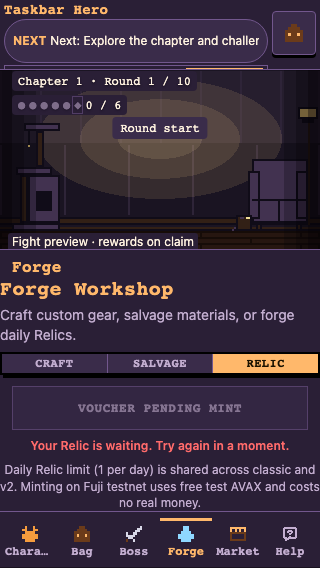
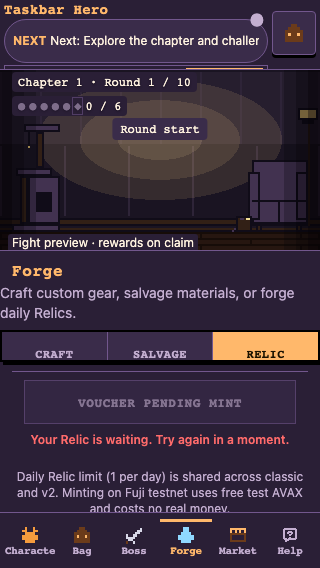
Refresh CXN1 report and evidence after merging main

diff --git a/reports/n1-relic-recovery.md b/reports/n1-relic-recovery.md
@@ -5,6 +5,8 @@ APPLY BEFORE DEPLOY: 20261107000000_voucher_race_guard.sql
 
 Date: 31 October 2026 (UTC+7). Base: origin/main at a913b052387f666b58d706281b51c926177b6e62, including deploy import-map fix #217. The user confirmed Claude's merge notice. Work used a separate clean worktree because the original checkout contained another mission's unfinished edits. Read-first period: 07:51:49–08:22:04 UTC+7 (30 minutes 15 seconds); no implementation edits during that period.
 
+Latest update: origin/main at 70d8c7948940c59b167963253fa8874ab5353190 was merged into this branch at the user's explicit request. See section 9 for the conflict resolution and latest verification; earlier check logs remain historical evidence.
+
 ## 1. Pieces and acceptance
 
 - Piece 1 — PASS: expose the existing relic_forges.id as claimId in v1/v2 forge replies, pending vouchers, forge.today and mint-report replies. Shared contract types, SQL JSON helpers, both store adapters, demo APIs and docs carry it. No claim-id column was added. Replacement vouchers retain the same claim, Relic and rarity.
@@ -59,8 +61,10 @@ Additional passing cases: state/competing forge cannot sign during a paused reis
 - apps/web/src/forge/ForgeTab.test.tsx — API helper preserves the added field/unsigned type and adds T11.
 - apps/web/src/layout/forge/ForgePanel.test.tsx — fixture ids and signed/unsigned pending-voucher precedence tests.
 - apps/web/src/game/stage/relicWiring.test.ts — voucher/result fixture ids for the expanded contract.
-- apps/web/src/game/stage/relicWiring.ui.test.tsx — required voucher fixture id.
+- apps/web/src/game/stage/relicWiring.ui.test.tsx — required voucher fixture id and a merge regression covering unsigned recovery in the relocated Relic footer.
 - apps/web/src/game/v2/loopV2.test.ts — forge result/voucher fixture ids.
+- apps/web/src/forge/MintPanel.test.tsx — add the required claimId to the new AGN1 test fixture after merging main; production MintPanel is unchanged relative to main.
+- apps/web/e2e/layout/stage-layout.spec.ts — await the observed panel-focus transition before Escape; retains the original focus assertion and timeout and avoids racing the next-frame callback.
 - apps/web/e2e/server/n1-relic-recovery.spec.ts — six viewport checks and opt-in screenshots for the connected forge view.
 
 Deliberately updated old assertions: v1 no-signer state changed from pending=null/daily_limit to a visible unsigned recoverable voucher; v2 no-signer state changed from pending=null to the same visible recovery. The competing-v2-reissue test now expects server_error while another request's unsigned check is held, then verifies successful lease recovery, the same Relic, a new nonce and no fresh forge call. No tests were deleted, disabled, skipped or weakened to hide failures. Existing game-rules skips/expected failures were left unchanged.
@@ -71,6 +75,7 @@ Deliberately updated old assertions: v1 no-signer state changed from pending=nul
 Command: git diff --stat origin/main...HEAD
 
 ```text
+ apps/web/e2e/layout/stage-layout.spec.ts           |   4 +
  apps/web/e2e/server/n1-relic-recovery.spec.ts      |  46 +++
  apps/web/src/CafeBoard.test.tsx                    |   2 +
  apps/web/src/api/GameApiV2.ts                      |  10 +-
@@ -81,14 +86,15 @@ Command: git diff --stat origin/main...HEAD
  apps/web/src/boss/BossTab.test.tsx                 |   2 +-
  apps/web/src/forge/ForgeTab.test.tsx               |  18 +-
  apps/web/src/forge/ForgeTab.tsx                    |  12 +-
+ apps/web/src/forge/MintPanel.test.tsx              |   1 +
  apps/web/src/forge/TodayRelicCard.test.tsx         |   4 +-
  apps/web/src/forge/TodayRelicCard.tsx              |   4 +-
  apps/web/src/forge/forgeText.ts                    |   2 +
  apps/web/src/game/stage/relicWiring.test.ts        |   4 +-
- apps/web/src/game/stage/relicWiring.ui.test.tsx    |   2 +-
+ apps/web/src/game/stage/relicWiring.ui.test.tsx    |  15 +-
  apps/web/src/game/v2/loopV2.test.ts                |   3 +-
  apps/web/src/layout/StageLayout.tsx                |   3 +-
- apps/web/src/layout/forge/ForgePanel.test.tsx      |  17 ++
+ apps/web/src/layout/forge/ForgePanel.test.tsx      |  17 +
  apps/web/src/layout/forge/ForgePanel.tsx           |  14 +-
  docs/api-v2.md                                     |  12 +-
  docs/api.md                                        |  10 +-
@@ -97,29 +103,29 @@ Command: git diff --stat origin/main...HEAD
  packages/api-contract/src/state.ts                 |   9 +-
  packages/api-contract/src/types.ts                 |  22 +-
  packages/api-contract/src/v2.ts                    |   8 +
- reports/n1-relic-recovery.md                       | 310 +++++++++++++++++++++
- .../n1-relic-recovery/pending-1280x720-dark.png    | Bin 0 -> 96757 bytes
- .../n1-relic-recovery/pending-1280x720-light.png   | Bin 0 -> 96757 bytes
- .../n1-relic-recovery/pending-1600x900-light.png   | Bin 0 -> 122027 bytes
- .../n1-relic-recovery/pending-320x568-light.png    | Bin 0 -> 48545 bytes
- reports/n1-relic-recovery/pending-390x844-dark.png | Bin 0 -> 64330 bytes
- .../n1-relic-recovery/pending-390x844-light.png    | Bin 0 -> 64330 bytes
+ reports/n1-relic-recovery.md                       | 397 +++++++++++++++++++++
+ .../n1-relic-recovery/pending-1280x720-dark.png    | Bin 0 -> 103114 bytes
+ .../n1-relic-recovery/pending-1280x720-light.png   | Bin 0 -> 103114 bytes
+ .../n1-relic-recovery/pending-1600x900-light.png   | Bin 0 -> 114875 bytes
+ .../n1-relic-recovery/pending-320x568-light.png    | Bin 0 -> 45396 bytes
+ reports/n1-relic-recovery/pending-390x844-dark.png | Bin 0 -> 57904 bytes
+ .../n1-relic-recovery/pending-390x844-light.png    | Bin 0 -> 57904 bytes
  supabase/functions/_shared/game-server.ts          |   5 +
- supabase/functions/_shared/game.ts                 |  89 ++++--
+ supabase/functions/_shared/game.ts                 |  89 ++++-
  supabase/functions/_shared/relic.ts                |   7 +-
  supabase/functions/_shared/v2/forge.ts             |  13 +-
  supabase/functions/_shared/v2/game.ts              |  23 +-
  supabase/functions/_shared/v2/server.ts            |   3 +-
  supabase/functions/_shared/v2/voucher.ts           |   5 +-
- .../20261107000000_voucher_race_guard.sql          | 271 ++++++++++++++++++
+ .../20261107000000_voucher_race_guard.sql          | 271 ++++++++++++++
  supabase/tests/src/forge.test.ts                   |  28 +-
  supabase/tests/src/game-db.ts                      |  12 +-
- supabase/tests/src/relic-reader.test.ts            |  16 ++
- supabase/tests/src/relic-recovery.test.ts          | 262 +++++++++++++++++
+ supabase/tests/src/relic-reader.test.ts            |  16 +
+ supabase/tests/src/relic-recovery.test.ts          | 262 ++++++++++++++
  supabase/tests/v2/functions-forge.test.ts          |   7 +-
  supabase/tests/v2/functions-state.test.ts          |   2 +-
  supabase/tests/v2/v2-store.ts                      |   3 +-
- 48 files changed, 1193 insertions(+), 109 deletions(-)
+ 50 files changed, 1298 insertions(+), 109 deletions(-)
 ```
 <!-- STAT_END -->
 
@@ -127,6 +133,7 @@ Command: git diff --stat origin/main...HEAD
 Command: git diff --name-only origin/main...HEAD
 
 ```text
+apps/web/e2e/layout/stage-layout.spec.ts
 apps/web/e2e/server/n1-relic-recovery.spec.ts
 apps/web/src/CafeBoard.test.tsx
 apps/web/src/api/GameApiV2.ts
@@ -137,6 +144,7 @@ apps/web/src/api/SupabaseGameApi.ts
 apps/web/src/boss/BossTab.test.tsx
 apps/web/src/forge/ForgeTab.test.tsx
 apps/web/src/forge/ForgeTab.tsx
+apps/web/src/forge/MintPanel.test.tsx
 apps/web/src/forge/TodayRelicCard.test.tsx
 apps/web/src/forge/TodayRelicCard.tsx
 apps/web/src/forge/forgeText.ts
@@ -178,7 +186,7 @@ supabase/tests/v2/v2-store.ts
 ```
 <!-- NAMES_END -->
 
-## 5. Checks and real output
+## 5. Initial implementation checks and real output
 
 Toolchain:
 
@@ -254,7 +262,7 @@ SCREENSHOTS=1 pnpm test:e2e e2e/server/n1-relic-recovery.spec.ts --project=v2-se
 6 passed (11.8s)
 ```
 
-The six PNGs are in reports/n1-relic-recovery, at 1600x900, 1280x720, 390x844 and 320x568 light, and 1280x720/390x844 dark. Sizes: 122027, 96757, 64330, 48545, 96757 and 64330 bytes respectively; all below 200 KB. All six were visually inspected. Browser evidence replaces only the local state reply's forge payload with an unavailable-signer fixture; surrounding state/session comes from the real local PGlite transport. Real server payload behavior is tested independently in the backend tests.
+The initial six PNG captures were in reports/n1-relic-recovery (refreshed captures are listed in section 9), at 1600x900, 1280x720, 390x844 and 320x568 light, and 1280x720/390x844 dark. Sizes: 122027, 96757, 64330, 48545, 96757 and 64330 bytes respectively; all below 200 KB. All six were visually inspected. Browser evidence replaces only the local state reply's forge payload with an unavailable-signer fixture; surrounding state/session comes from the real local PGlite transport. Real server payload behavior is tested independently in the backend tests.
 
 Full browser suite — PASS on the full isolated-port rerun, exit 0:
 
@@ -307,4 +315,83 @@ Git author: ntbaoheyhey <108352255+ntbaoheyhey@users.noreply.github.com>.
 
 Reproduce with the frozen install and checks above. The focused recovery tests cover both API versions. Run the six-case screenshot command for the committed PNGs. Run the full browser suite with the isolated four-port environment above if the default ports are in use. Report metrics generated for other missions are restored after browser runs.
 
-No PR, merge, workflow dispatch, deploy command, live database write or on-chain transaction was performed. Only this mission branch is pushed.
+The initial implementation created no merge. The follow-up explicitly authorized the main-to-mission merge described below. No PR, workflow dispatch, deploy command, live database write or on-chain transaction was performed. Only this mission branch is pushed.
+
+
+## 9. Main merge follow-up — 31 October 2026
+
+Merged origin/main at 70d8c7948940c59b167963253fa8874ab5353190, including AGU1 UI changes (#223) and AGN1 error screens (#224), into ai/codex-n1-relic-recovery. Merge commit: a4b76b9468c804154ffdcb12dd37b258ed1cfcee; its parents are the prior CXN1 report tip 795a14953e74a1dcbd57c771c193ffe2451f594e and that main commit. No rebase or force push. A separate test synchronization commit, 05acadb, waits for actual panel focus before the existing Escape assertion.
+
+Conflict resolution — PASS:
+
+- StageLayout now keeps AGU1's craftResult and relicFooter slots, craft result notice, relocated Boss map and surrounding UI structure, with no duplicate legacy craft/mint block.
+- The CXN1 signature-null guard moved into the new relicFooter. Only a signed voucher reaches MintPanel; the existing mintedNonce and confirmation/retry handling remain intact.
+- AGN1's ActionNotice, API error mapping, wrong-wallet message and store error behavior are preserved. Checked upstream source paths (MintPanel, storeV2, v2text, layout/notice, GameApiErrorV2, SupabaseGameApiV2, StageCanvas/StageScene, Bag, Boss and map) match origin/main exactly.
+- The new integration regression verifies the waiting message, no daily-limit refusal, no MintPanel call for an unsigned voucher, one Relic footer, and no leaked Relic footer when switching to Craft. Existing signed-mint, reporting, layout and notice tests pass.
+- Initial merged typecheck found the newly imported MintPanel test fixture missing CXN1's required claimId. Adding that field was the only change to that upstream test. No production MintPanel changes were made by CXN1.
+
+The first full merged browser run had 245 passes and one focus failure in the phone navigation case. Its isolated rerun passed unchanged (1 passed, 7.8s). Inspection found that the test sent Escape while the next-animation-frame panel-focus callback could still be pending. The test now asserts that focus has entered the Boss panel before Escape; the original return-focus assertion and timeout remain unchanged. No application focus code was changed. The final full rerun is recorded below.
+
+Latest actual checks:
+
+```text
+pnpm --version
+10.28.0
+CI=true pnpm install --frozen-lockfile
+Lockfile is up to date, resolution step is skipped
+Already up to date
+Done in 352ms using pnpm v10.28.0
+
+pnpm gen:deno && git diff --exit-code -- supabase/functions
+wrote 18 Edge Function import maps
+exit 0
+
+pnpm typecheck
+all six package checks: Done; exit 0
+pnpm lint
+all six package checks: Done; exit 0
+
+pnpm test
+packages/chain: 2 files passed; 7 tests passed
+packages/auth: 1 file passed; 24 tests passed
+supabase/tests: 27 files passed; 517 tests passed
+packages/game-rules: 24 files passed | 3 skipped; 366 passed | 2 expected fail | 11 skipped
+packages/api-contract: 1 file passed; 16 tests passed
+apps/web: 107 files passed; 1274 tests passed
+exit 0
+
+pnpm --filter @taskbar-hero/web exec vitest run src/game/stage/relicWiring.ui.test.tsx src/layout/StageLayout.test.tsx src/forge/MintPanel.test.tsx src/layout/notice/ActionNotice.test.tsx src/layout/forge/ForgePanel.test.tsx
+Test Files 5 passed (5); Tests 55 passed (55)
+
+pnpm build
+apps/web build: built in 382ms; Done; exit 0
+VITE_GAME_V2=0 pnpm --filter @taskbar-hero/web build
+built in 327ms; exit 0
+
+E2E_PORT_CLASSIC=4273 E2E_PORT_V2=4274 E2E_PORT_SERVER=4275 E2E_PORT_API=4276 pnpm test:e2e --workers=2
+246 passed (2.2m); exit 0
+
+node scripts/check-links.mjs
+Checked 61 markdown files and 795 links/paths.
+Found 1 broken link: unchanged docs/security-test-matrix.md:15 -> ../../packages/auth/src/index.test.ts
+```
+
+Merged UI evidence — PASS, exit 0:
+
+```text
+SCREENSHOTS=1 E2E_PORT_CLASSIC=4273 E2E_PORT_V2=4274 E2E_PORT_SERVER=4275 E2E_PORT_API=4276 pnpm test:e2e e2e/server/n1-relic-recovery.spec.ts --project=v2-server --workers=1
+6 passed (9.7s)
+```
+
+All six committed captures were refreshed for the merged UI and visually inspected. Current byte counts:
+
+- pending-1280x720-dark.png: 103114 bytes.
+- pending-1280x720-light.png: 103114 bytes.
+- pending-1600x900-light.png: 114875 bytes.
+- pending-320x568-light.png: 45396 bytes.
+- pending-390x844-dark.png: 57904 bytes.
+- pending-390x844-light.png: 57904 bytes.
+
+All are below 200 KB. The 21 report artifacts rewritten by unrelated browser cases were restored; only CXN1 evidence/report changes remain. The full workspace suite, all 246 browser cases (including classic, AGN1 error notices and CXN1 recovery), and Deno drift checks pass. The unchanged link-check baseline remains the one known exception.
+
+The checks use local builds and PGlite only. All T1–T13 backend/unit cases were rerun in the full unit suite; production migration application, real wallets and the previously documented chain/RPC limits remain unverified. The migration is still unapplied and still required before deploy. No Actions, PR, deployment or live write was triggered.
